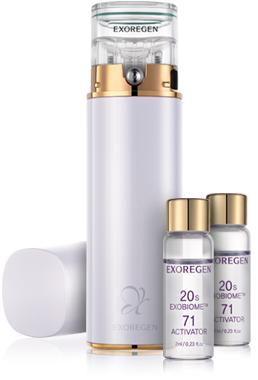
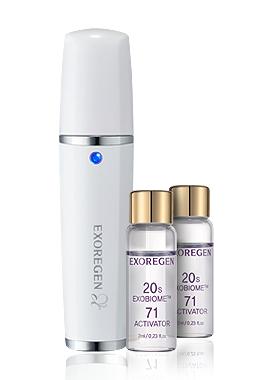
[PC/스킨테스트] 스킨테스트 결과값 페이지 수정
1. 액티베이터 미스트 제품 모델 변경으로 인한 이미지 교체
2. 듀얼마스크 제품 단종으로인해 스피디 카밍젤 제품으로 이미지 및 텍스트 변경

diff --git a/skin-test-c1.html b/skin-test-c1.html
@@ -321,7 +321,7 @@
                             고객님 피부타입은 <strong>민감성</strong>이며,
                             <br />
                             <span class="recommand-txt">
-                                진정및 보습을 위한 <strong>마스크</strong>제품을 추천드립니다.
+                                진정및 보습을 위한 <strong>엑소좀 스피디 카밍젤</strong> 제품을 추천드립니다.
                             </span>
                         </p>
                     </div>
@@ -335,20 +335,20 @@
             <div class="section-inner">
                 <div class="result-cont-wrap">
                     <div class="result-product-box">
-                        <img src="/img_/skin-test/dual-mask.png" alt="엑소리젠 스피디 듀얼마스크">
+                        <img src="/img_/skin-test/calming-gel.png" alt="엑소리젠 엑소좀 스피디 카밍젤">
                     </div>
                     <div class="result-txt-box">
                         <h3>
                             RESULT <span class="result-type">C-1</span>
                         </h3>
                         <div class="result-product-name-box">
-                            <p>엑소리젠 스피디 듀얼마스크</p>
-                            <p>EXOREGEN SPEEDY DUAL MASK</p>
+                            <p>엑소리젠 엑소좀 스피디 카밍젤</p>
+                            <p>EXOREGEN EXOSOME SPEEDY CALMING GEL</p>
                         </div>
                         <p class="result-product-desc">
-                            예민한 피부에 즉각적인 진정과 수분을 충전하는 리차징 앤 수딩젤과 보습 및 영양을 전달하는 <br />
-                            리텍스처 크림 마스크이 피부에 빠른 진정 효과와 수분 충전! <br />
-                            칼라민 성분함유의 부드러운 크림 텍스처로 피부에 진정 및 보습에 도움을 줍니다.
+                            민감해진 피부의 빠른 진정과 수분충전으로 피부를 편안하게 케어! <br />
+                            외부 환경으로 자극 받아 예민해진 피부에 산뜻한 수분감과 쿨링감으로 <br />
+                            피부의 열기를 빠르게 가라 앉히고 민감해진 피부를 산뜻하고 편안하게 진정 시켜줍니다.
                         </p>
                         <a href="/product-detail.html" class="circle-btn">
                             <img src="/img_/icon/link-arrow.png" alt="페이지 이동" />

diff --git a/skin-test-b3.html b/skin-test-b3.html
@@ -321,7 +321,7 @@
                             고객님 피부타입은 <strong>건성</strong>이며,
                             <br />
                             <span class="recommand-txt">
-                                진정및 보습을 위한 <strong>마스크</strong>제품을 추천드립니다.
+                                진정및 보습을 위한 <strong>엑소좀 스피디 카밍젤</strong> 제품을 추천드립니다.
                             </span>
                         </p>
                     </div>
@@ -335,20 +335,20 @@
             <div class="section-inner">
                 <div class="result-cont-wrap">
                     <div class="result-product-box">
-                        <img src="/img_/skin-test/dual-mask.png" alt="엑소리젠 스피디 듀얼마스크">
+                        <img src="/img_/skin-test/calming-gel.png" alt="엑소리젠 엑소좀 스피디 카밍젤">
                     </div>
                     <div class="result-txt-box">
                         <h3>
                             RESULT <span class="result-type">B-3</span>
                         </h3>
                         <div class="result-product-name-box">
-                            <p>엑소리젠 스피디 듀얼마스크</p>
-                            <p>EXOREGEN SPEEDY DUAL MASK</p>
+                            <p>엑소리젠 엑소좀 스피디 카밍젤</p>
+                            <p>EXOREGEN EXOSOME SPEEDY CALMING GEL</p>
                         </div>
                         <p class="result-product-desc">
-                            예민한 피부에 즉각적인 진정과 수분을 충전하는 리차징 앤 수딩젤과 보습 및 영양을 전달하는 <br />
-                            리텍스처 크림 마스크이 피부에 빠른 진정 효과와 수분 충전! <br />
-                            칼라민 성분함유의 부드러운 크림 텍스처로 피부에 진정 및 보습에 도움을 줍니다.
+                            건조하고 칙칙한 피부를 시원하고 수분감있게 해주는 수딩젤!<br />
+                            쫀쫀한 젤 텍스처로 메마른 피부에 빠르게 흡수하여 건조하고 칙칙한 피부의 <br />
+                            진정 및 보습에 도움을 줍니다. 
                         </p>
                         <a href="/product-detail.html" class="circle-btn">
                             <img src="/img_/icon/link-arrow.png" alt="페이지 이동" />

diff --git a/skin-test-a1.html b/skin-test-a1.html
@@ -335,7 +335,7 @@
             <div class="section-inner">
                 <div class="result-cont-wrap">
                     <div class="result-product-box">
-                        <img src="/img_/skin-test/activator.png" alt="20s 엑소바이옴™71 액티베이터 + 마이크로 더마블로우 미스트">
+                        <img src="/img_/skin-test/activator.png?ver=240103" alt="20s 엑소바이옴™71 액티베이터 + 마이크로 더마블로우 미스트">
                     </div>
                     <div class="result-txt-box">
                         <h3>
